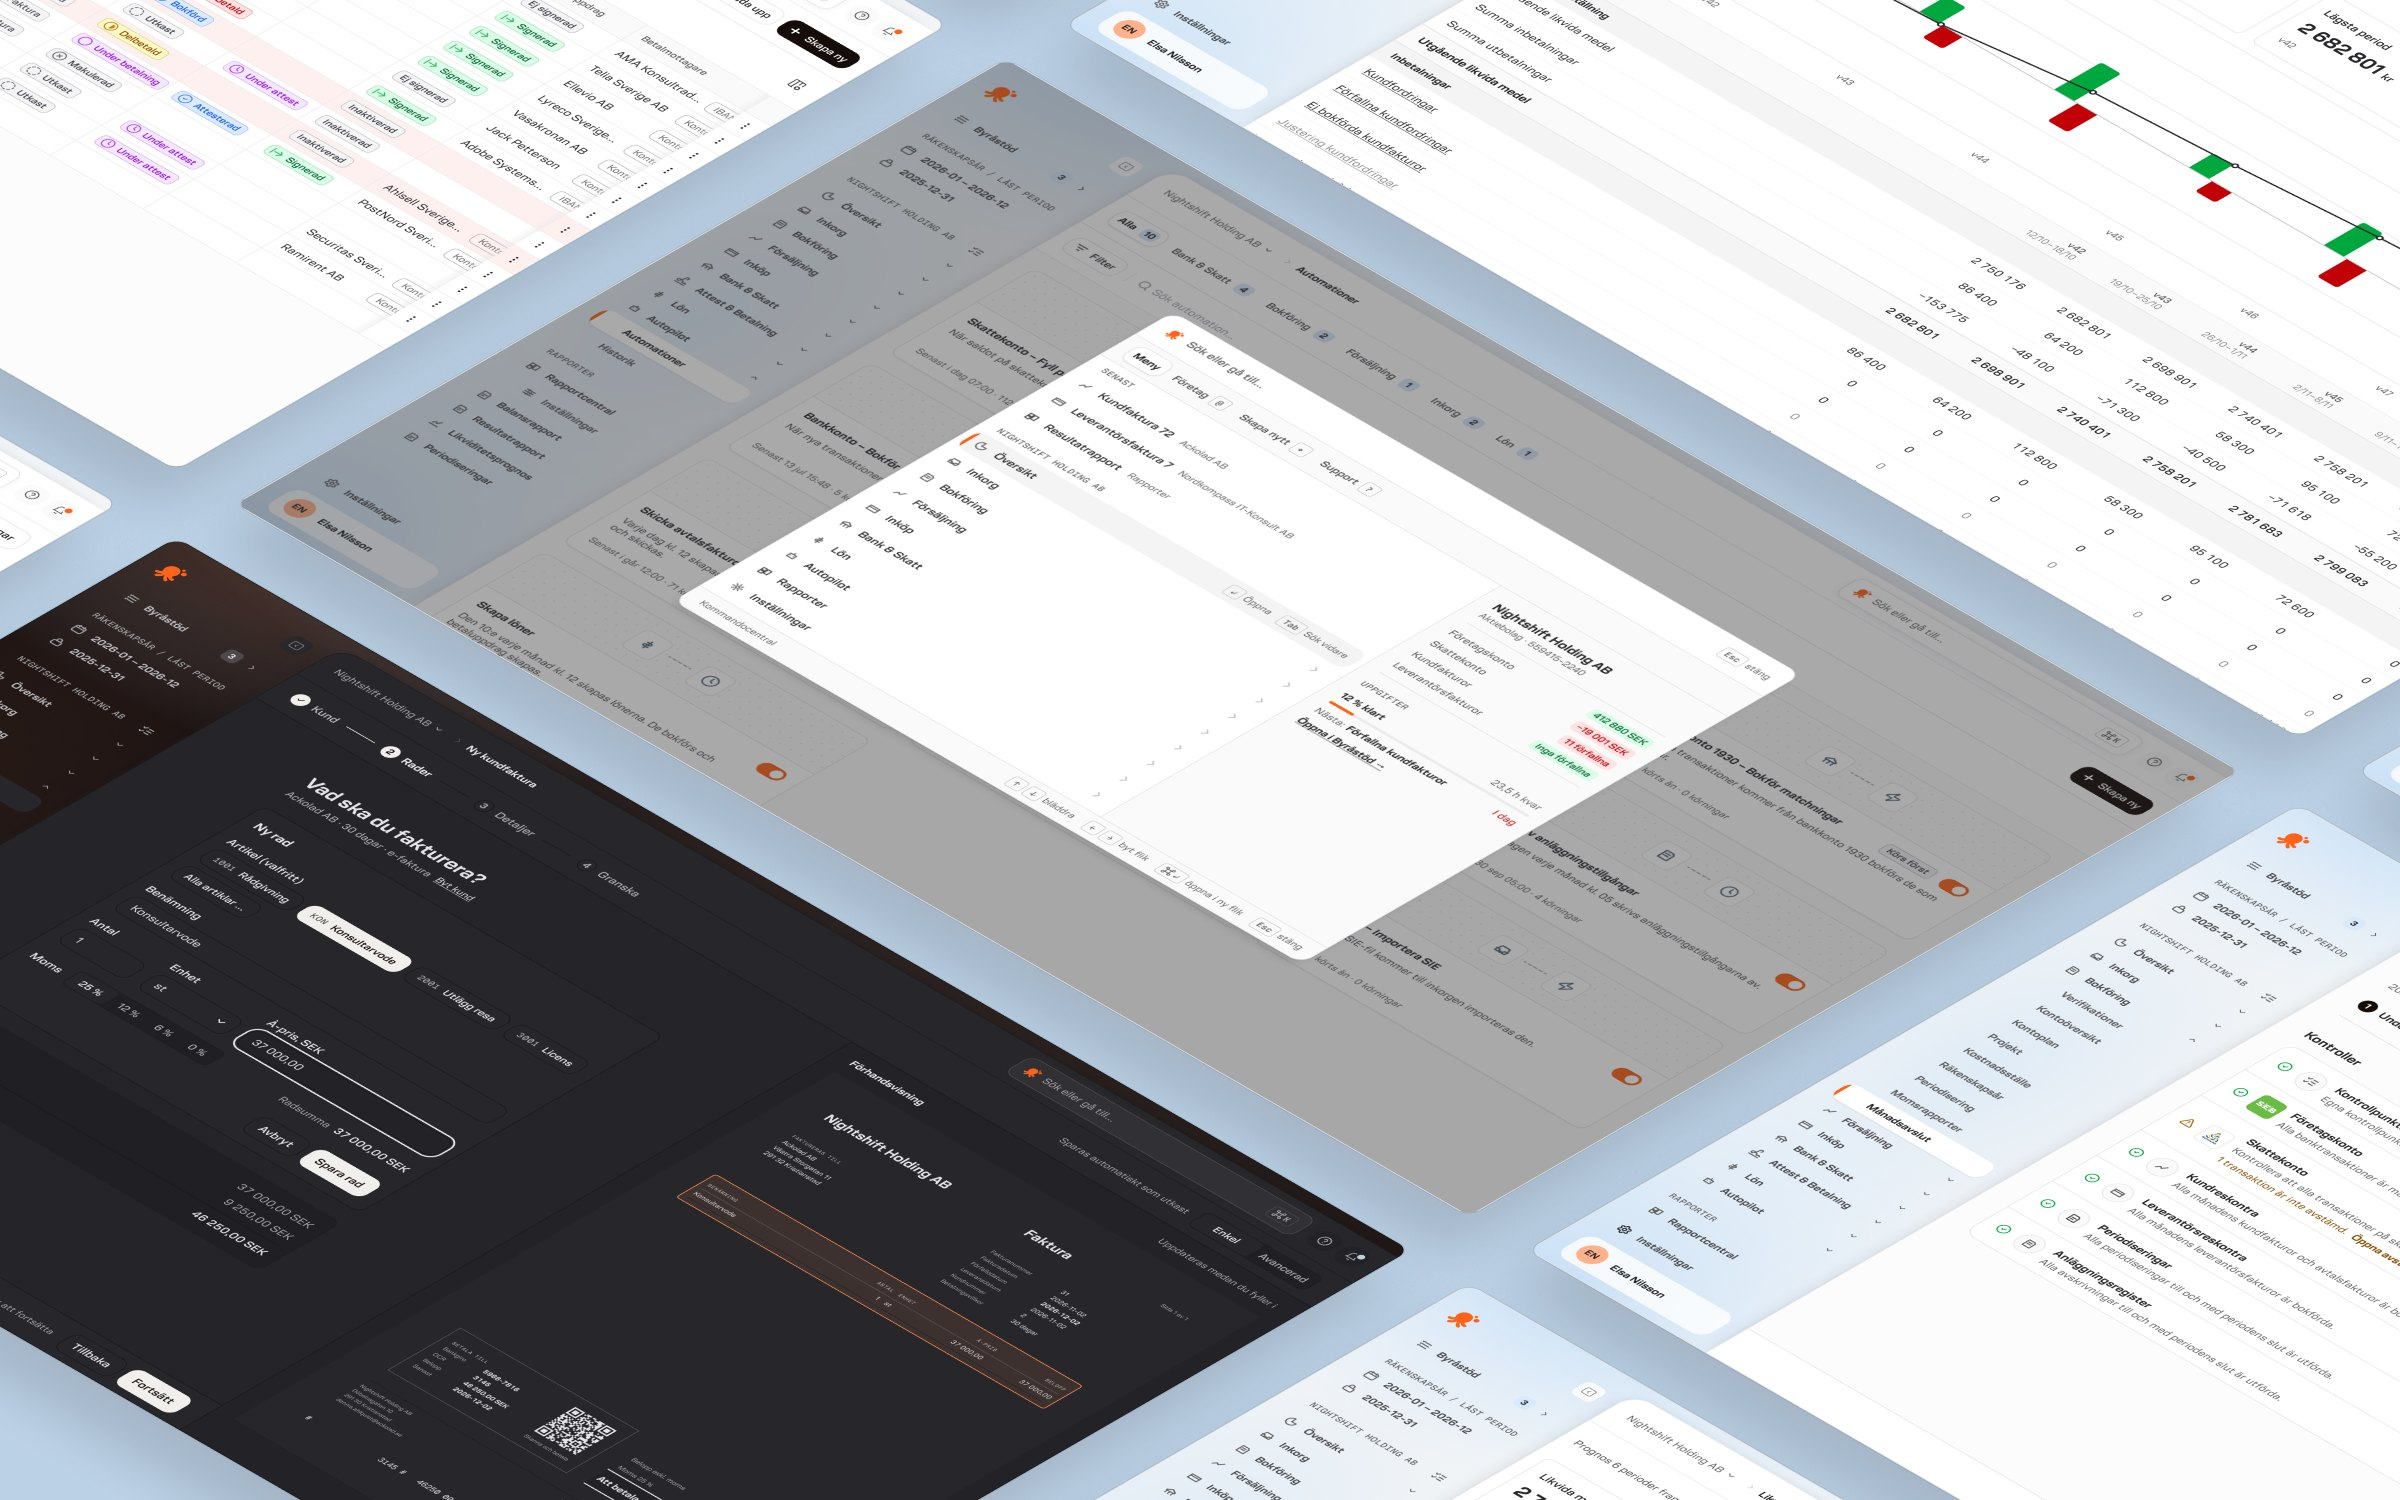
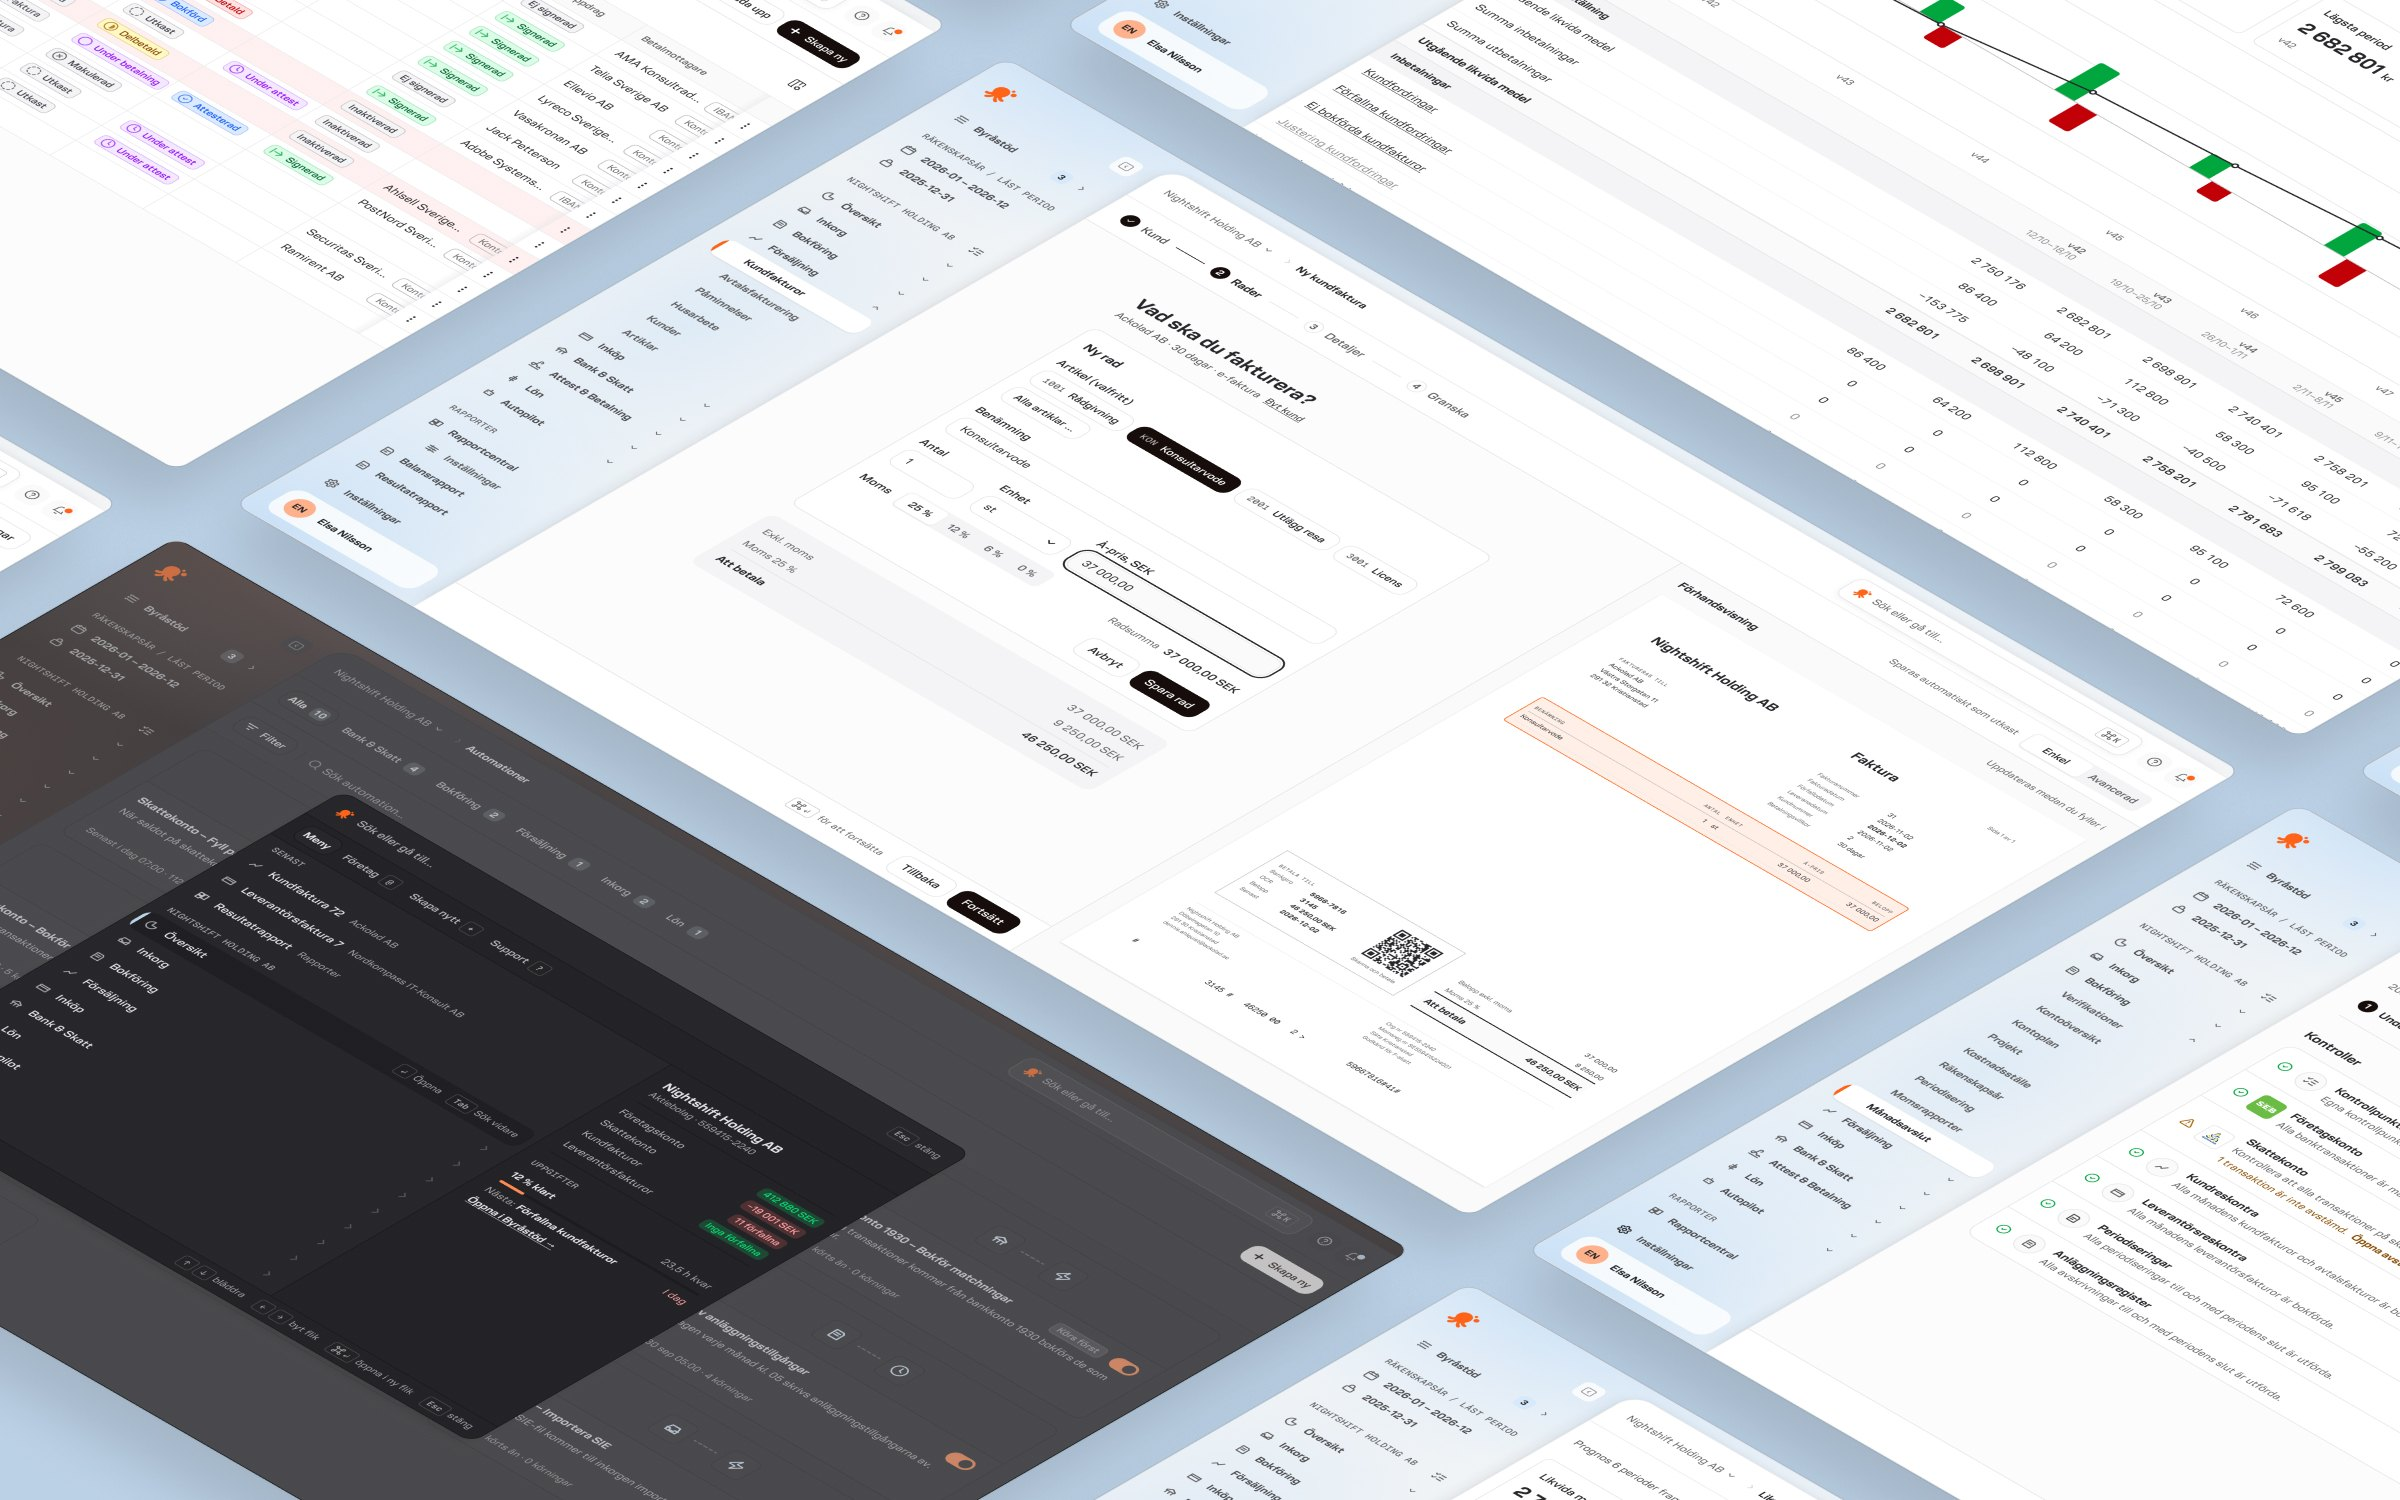
Oqto: isometric image without drift, new centre and lower-left screens
Claude-Session: https://claude.ai/code/session_01T8AAM769pNUjzneeyTgJVR

diff --git a/docs/oqto/index.html b/docs/oqto/index.html
@@ -17,7 +17,7 @@
 <link rel="apple-touch-icon" href="../apple-touch-icon.png">
 <link rel="preload" href="../fonts/familjen-grotesk-latin-wght-normal.woff2" as="font" type="font/woff2" crossorigin>
 <link rel="stylesheet" href="../css/base.css?v=b94be2dc">
-<link rel="stylesheet" href="../css/oqto.css?v=0f16b6f9">
+<link rel="stylesheet" href="../css/oqto.css?v=b9556b29">
 <link rel="stylesheet" href="../css/site.css?v=d81ffc0d">
 <script>(function(){try{try{localStorage.removeItem("theme")}catch(e){}var t=sessionStorage.getItem("theme");if(t==="dk"||t==="lt")document.documentElement.classList.add(t)}catch(e){}})();</script>
 <noscript><style>.rv{opacity:1!important}.rv .zm,.rv .st,.rv .bl{transform:none!important}.rv .st span{opacity:1!important}.rv .ck path{stroke-dashoffset:0!important}.ic .s{stroke-dashoffset:0!important}.ic .nd{transform:none!important}</style></noscript>
@@ -113,7 +113,7 @@
 <p class="c-step-text">I redesigned a selection of screens chosen to cover as much of the product as possible, and reworked the flows that needed bigger changes. Below is one of them: the editor for building automations.</p>
 </div>
 </div>
-<div data-px="1" data-rv="6" data-lb="1" tabindex="0" role="button" aria-label="Enlarge image" class="rv c-clip"><div class="dg"><img class="zm px" src="../assets/oqto-screens-1400.webp?v=df0c9d02" srcset="../assets/oqto-screens-800.webp?v=8f604210 800w, ../assets/oqto-screens-1400.webp?v=df0c9d02 1400w, ../assets/oqto-screens.webp?v=95bce654 2400w" sizes="(min-width: 1440px) 1200px, 92vw" data-lbsrc="../assets/oqto-screens.webp?v=95bce654" loading="lazy" decoding="async" alt="Oqto screens in an isometric grid, including the command palette, month-end closing and a customer invoice in dark mode" width="2400" height="1500"></div></div>
+<div data-px="1" data-rv="6" data-lb="1" tabindex="0" role="button" aria-label="Enlarge image" class="rv c-clip"><img class="zm px" src="../assets/oqto-screens-1400.webp?v=55866991" srcset="../assets/oqto-screens-800.webp?v=ad78ada6 800w, ../assets/oqto-screens-1400.webp?v=55866991 1400w, ../assets/oqto-screens.webp?v=4e130605 2400w" sizes="(min-width: 1440px) 1200px, 92vw" data-lbsrc="../assets/oqto-screens.webp?v=4e130605" loading="lazy" decoding="async" alt="Oqto screens in an isometric grid, including a new customer invoice, month-end closing and the command centre in dark mode" width="2400" height="1500"></div>
 <div data-rv="5" data-lb="1" tabindex="0" role="button" aria-label="Enlarge image" class="rv c-clip"><div class="zm an ap"><img src="../assets/oqto-autopilot-screen-1400.webp?v=e877b4d3" srcset="../assets/oqto-autopilot-screen-800.webp?v=689e47ad 800w, ../assets/oqto-autopilot-screen-1400.webp?v=e877b4d3 1400w, ../assets/oqto-autopilot-screen.webp?v=055c99a0 2400w" sizes="(min-width: 1440px) 1200px, 92vw" loading="lazy" decoding="async" data-lbsrc="../assets/oqto-autopilot.webp?v=69045211" alt="The automation editor in Oqto, with the automation’s card on top" width="2400" height="1500">
 <div aria-hidden="true"><i class="fl f1"></i><i class="fl f2"></i><i class="fl f3"></i><i class="fl f4"></i><i class="fl f5"></i><i data-rv="8" class="ac rv c-e239d3"></i></div></div></div>
 </section>

diff --git a/site/pages/oqto.html b/site/pages/oqto.html
@@ -24,7 +24,7 @@
 
 <section [[SC]]>
 @STEP{03 The product|Key screens, rebuilt|I redesigned a selection of screens chosen to cover as much of the product as possible, and reworked the flows that needed bigger changes. Below is one of them: the editor for building automations.}
-<div data-px="1" @RV{6}><div class="dg"><img class="zm px" src="[[A]]oqto-screens.jpg" alt="Oqto screens in an isometric grid, including the command palette, month-end closing and a customer invoice in dark mode" width="2400" height="1500"></div></div>
+<div data-px="1" @RV{6}><img class="zm px" src="[[A]]oqto-screens.jpg" alt="Oqto screens in an isometric grid, including a new customer invoice, month-end closing and the command centre in dark mode" width="2400" height="1500"></div>
 <div @RV{5}><div class="zm an ap"><img src="[[A]]oqto-autopilot-screen.jpg" data-lbsrc="[[A]]oqto-autopilot.jpg" alt="The automation editor in Oqto, with the automation’s card on top" width="2400" height="1500">
 <div aria-hidden="true"><i class="fl f1"></i><i class="fl f2"></i><i class="fl f3"></i><i class="fl f4"></i><i class="fl f5"></i><i data-rv="8" class="ac rv" style="background-image: url([[A]]oqto-autopilot-card.webp)"></i></div></div></div>
 </section>

diff --git a/docs/css/oqto.css b/docs/css/oqto.css
@@ -27,8 +27,6 @@
 .oc .o2{animation:ocB 2.9s ease-in-out -1s infinite alternate}
 @keyframes ocF{from{transform:translateY(3.5%) rotate(-2deg)}to{transform:translateY(-3.5%) rotate(2deg)}}
 @keyframes ocB{from{transform:translate(-6%,10%)}to{transform:translate(8%,-16%)}}
-.dg{animation:dgF 22s ease-in-out infinite alternate;will-change:transform}
-@keyframes dgF{from{transform:scale(1.08) translate(-3.2%,1.92%)}to{transform:scale(1.08) translate(3.2%,-1.92%)}}
 .hq{animation:hl1 6s cubic-bezier(.45,0,.2,1) 1s infinite}
 .q2{animation-name:hl2}
 @keyframes hl1{0%{opacity:1;transform:scaleX(0)}12%{opacity:1;transform:scaleX(1)}36%{opacity:1;transform:scaleX(1)}46%,100%{opacity:0;transform:scaleX(1)}}

diff --git a/site/css/oqto.css b/site/css/oqto.css
@@ -27,8 +27,6 @@
 .oc .o2{animation:ocB 2.9s ease-in-out -1s infinite alternate}
 @keyframes ocF{from{transform:translateY(3.5%) rotate(-2deg)}to{transform:translateY(-3.5%) rotate(2deg)}}
 @keyframes ocB{from{transform:translate(-6%,10%)}to{transform:translate(8%,-16%)}}
-.dg{animation:dgF 22s ease-in-out infinite alternate;will-change:transform}
-@keyframes dgF{from{transform:scale(1.08) translate(-3.2%,1.92%)}to{transform:scale(1.08) translate(3.2%,-1.92%)}}
 .hq{animation:hl1 6s cubic-bezier(.45,0,.2,1) 1s infinite}
 .q2{animation-name:hl2}
 @keyframes hl1{0%{opacity:1;transform:scaleX(0)}12%{opacity:1;transform:scaleX(1)}36%{opacity:1;transform:scaleX(1)}46%,100%{opacity:0;transform:scaleX(1)}}

diff --git a/site/build.py b/site/build.py
@@ -19,7 +19,7 @@ ASSETS = {
     "c4459226de797c4df204a6b0b06ca3d5": "svartanatt.jpg", "fec15f3ac0007fd30fc3f6f249fd448c": "henrik.jpg",
     "aa1eb67f8c8be2493bbfd4aa54762e37": "oqto-type.jpg", "471465112e013b29ffcea0fa0ea3b559": "oqto-components.jpg",
     "c34dd534a3003ee261711ca87890d62c": "oqto-dark.jpg", "b7a1f7ae78d363ddf79c024ff4bfa8f4": "oqto-light.jpg",
-    "c34b591a7f8fddf09f75926bdbe9cb4d": "oqto-screens.jpg", "9aed89d8ef290ab64dbcbde6ca8f4fda": "oqto-screens.jpg", "6f9deb035305d822828b08e689c25451": "oqto-screens.jpg", "58bfc0c4270a375bc74b6d5220c08759": "oqto-screens.jpg",
+    "c34b591a7f8fddf09f75926bdbe9cb4d": "oqto-screens.jpg", "9aed89d8ef290ab64dbcbde6ca8f4fda": "oqto-screens.jpg", "6f9deb035305d822828b08e689c25451": "oqto-screens.jpg", "dbdfddcb489a4fa26ab7ab5cb80e16ca": "oqto-screens.jpg",
     "58de01b9072eda84254cd01a48c40ef2": "oqto-hero.jpg", "39ef734d077cfb8ce0194b15663db30b": "oqto-hero-full.jpg",
     "61a378bf7433de32c670c178063634b2": "oqto-autopilot-screen.jpg", "383cff83cd54a399877734eba3790234": "oqto-autopilot.jpg",
     "43354ec57226250cefeb1cbb4d54810b": "oqto-autopilot-card.jpg", "9aa647c4ebf37b042b20b8b87da433a1": "oqto-components.jpg", "65ae19d31029925e96dfdd8e898d1392": "oqto-components.jpg",
